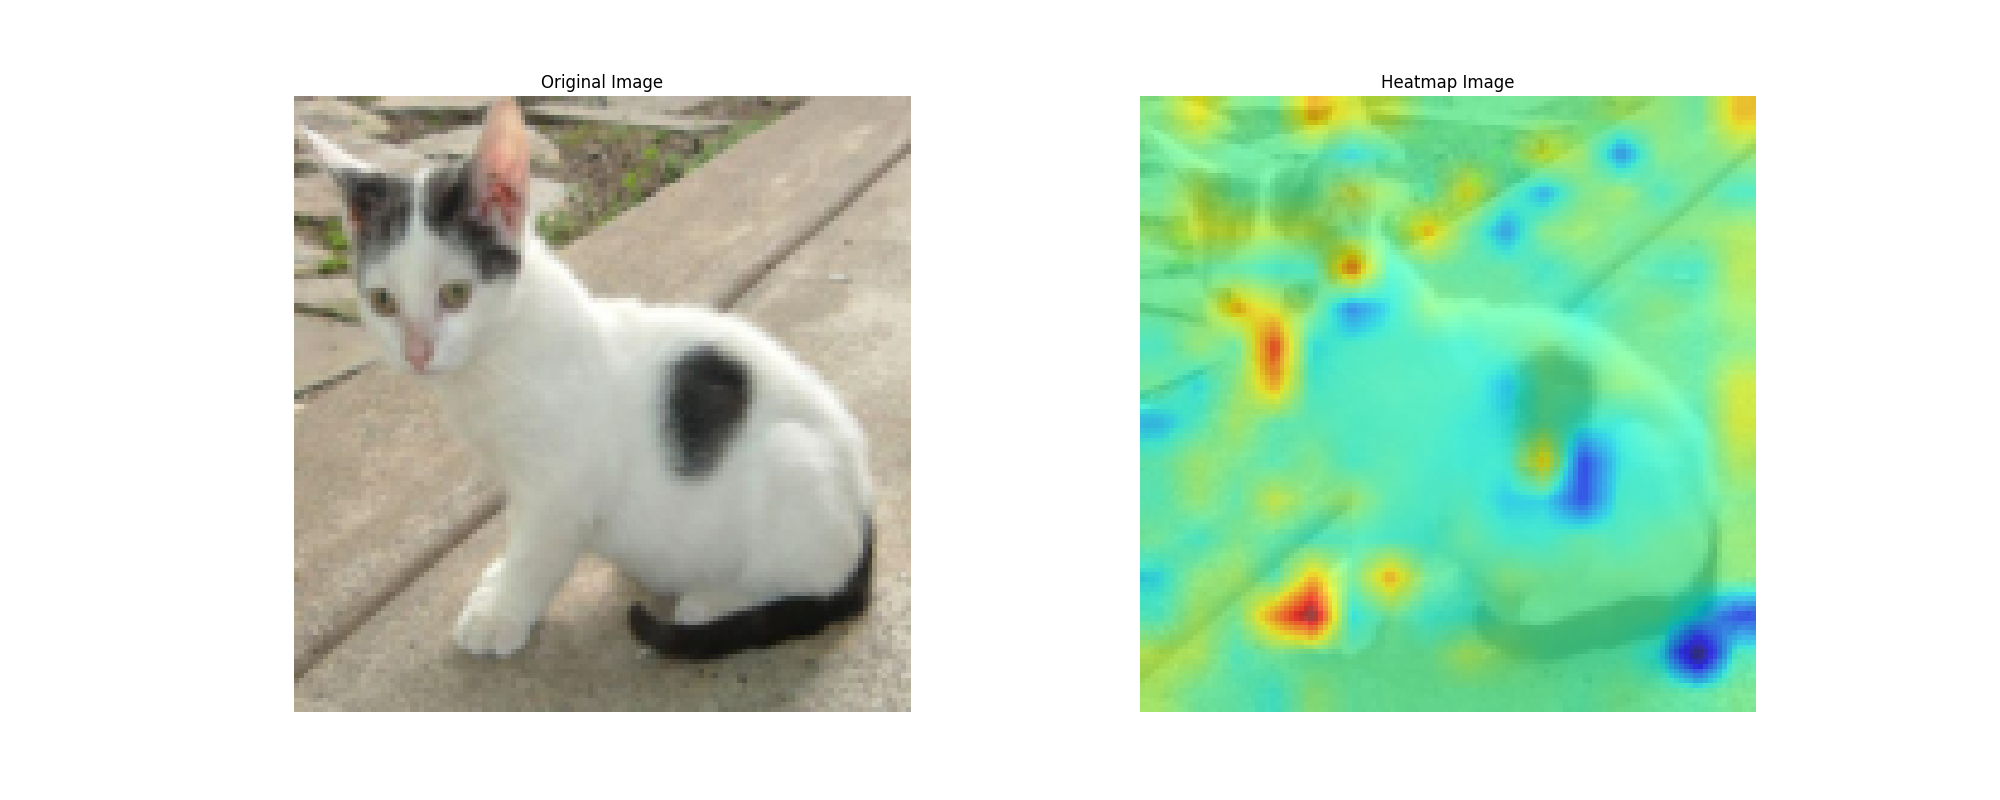
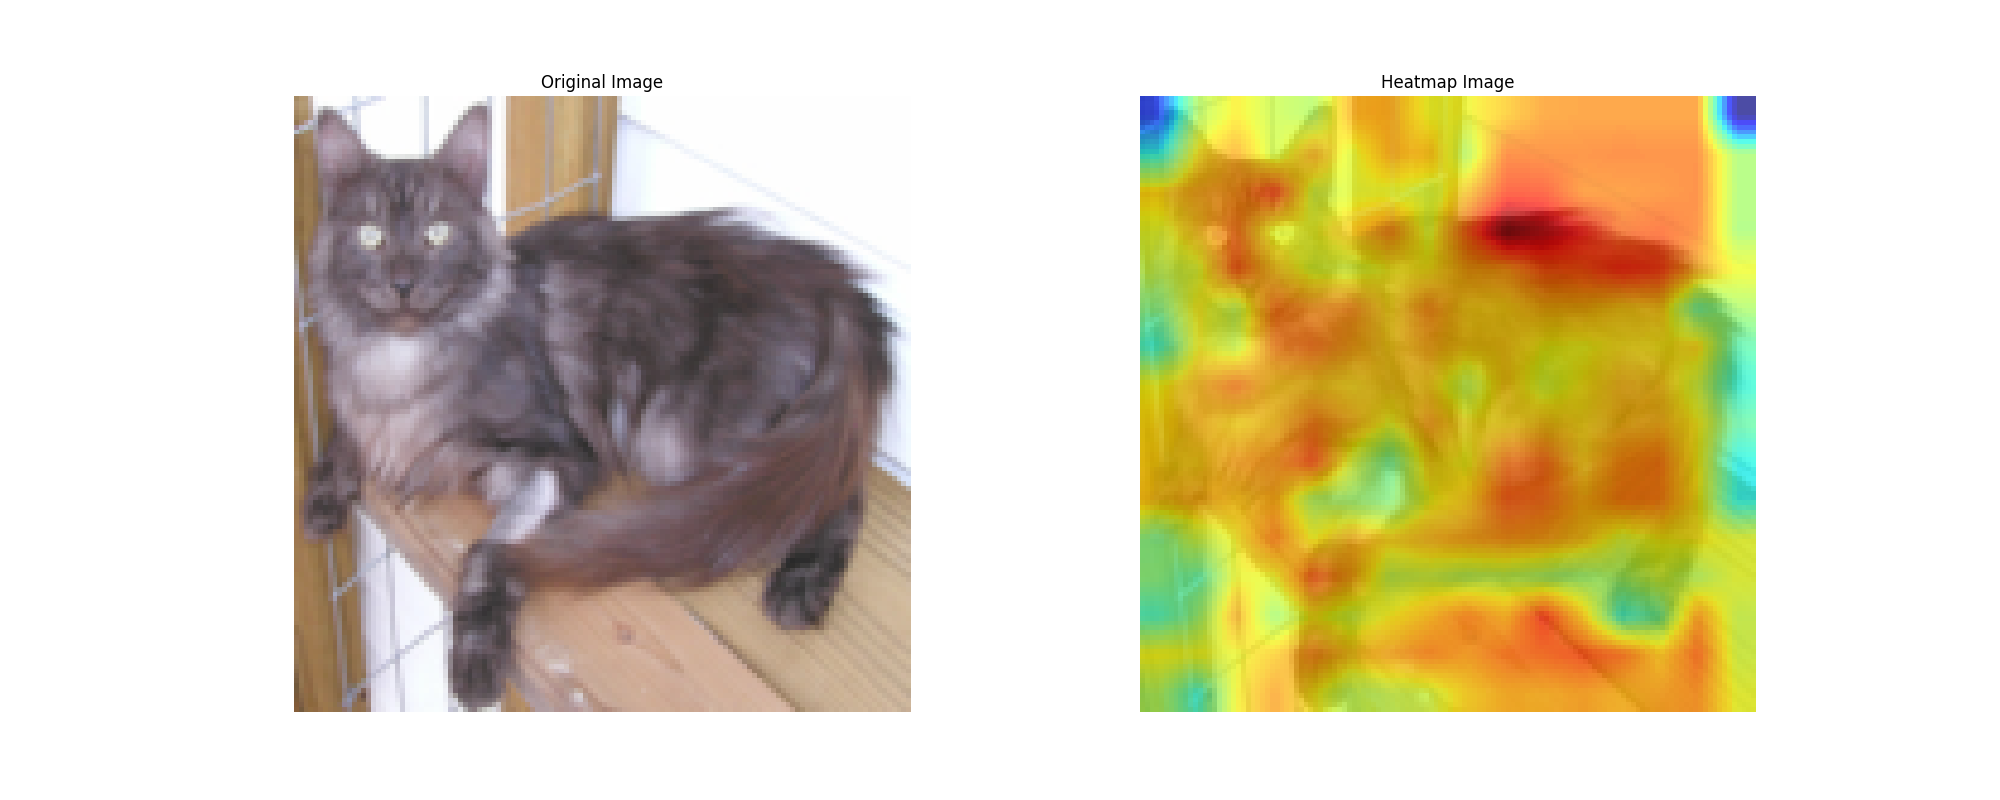
Added train_funcs.py to standardize training routines for the CNN_CAT_DOG and BASIC_MODEL models

diff --git a/training/basic_train.py b/training/basic_train.py
@@ -1,17 +1,11 @@
 
-import torch.optim
-import random
-import os 
 import argparse as arg
-from torch import nn
-from torch.utils.data import DataLoader, Dataset
 from utils.parent_dir import parent_dir
-from utils.metrics import calc_accuracy
+from utils.train_funcs import train_results
 from torchvision import datasets, transforms
-import matplotlib.pyplot as plt
 from pathlib import Path
 from Models.model import BASIC_MODEL
-from Models.model import BASIC_CNN
+
 
 # Basic MNIST training script
 # This module defines the training workflow for the BASIC_MODEL and saves
@@ -19,101 +13,9 @@ from Models.model import BASIC_CNN
 
 def main():
 
+    transform = transforms.ToTensor()
 
-    
-
-
-    # Select GPU if available, otherwise use CPU
-    device = 'cuda' if torch.cuda.is_available() else 'cpu'
-    print(device)
-
-
-
-    BATCH = 64
-    LR = 0.005
-    EPOCHS = 150
-
-
-
-    def train_results(BATCH, LR, EPOCHS):
-
-        # Initialize the model, loss function, optimizer, and data transform
-        model = BASIC_MODEL().to(torch.device(device))
-
-        criterion = nn.CrossEntropyLoss()
-
-        optimizer = torch.optim.Adam(model.parameters(), lr = LR)
-
-        transform = transforms.ToTensor()
-
-        # Load the MNIST training dataset from the local data folder
-        MNIST_Train = datasets.MNIST(root = "data", train= True,  transform = transform)
-
-        
-
-
-        train_data_loader = DataLoader(dataset = MNIST_Train, batch_size= BATCH, shuffle = True, num_workers = 0)
-
-        
-
-
-        
-
-        print(f"num_parameters: {sum(p.numel() for p in model.parameters())}")
-
-
-
-        
-
-        # Training loop over epochs and batches
-        for epoch in range(EPOCHS):
-
-            model.train()
-            
-            train_loss, train_acc = 0, 0
-
-
-            for (image,label) in train_data_loader:
-                
-            
-
-
-                image, label = image.to(device), label.to(device)
-
-                output = model(image.view(image.shape[0],-1))
-
-                loss= criterion(output, label)
-
-                optimizer.zero_grad()
-
-                loss.backward()
-
-                train_acc += calc_accuracy(output, label)
-
-                train_loss += loss.item()
-
-                optimizer.step()
-
-
-            
-            
-            print(f"Epoch: {epoch}, Loss: {train_loss/len(train_data_loader):.4f}")
-
-        # Save model and optimizer checkpoints for later evaluation or resuming
-        model_path = parent_dir/ "checkpoint" / "basic" /"dnn_model.pth"
-
-        optimizer_path = parent_dir /"checkpoint" /"basic"/"dnn_optimizer.pth"
-
-        Path.touch(model_path)
-
-        Path.touch(optimizer_path)
-
-        torch.save(model.state_dict(), model_path)
-
-        torch.save(optimizer.state_dict(), optimizer_path)  
-
-
-    
+    MNIST_Train = datasets.MNIST(root = "data", train= True,  transform = transform)
 
     # Parse command-line arguments for learning rate, batch size, and epochs
     arg_collector = arg.ArgumentParser()
@@ -122,10 +24,12 @@ def main():
     arg_collector.add_argument("--batch_size", type = int)
     arg_collector.add_argument("--epochs", type = int)
 
-
     args = arg_collector.parse_args()
 
-    train_results(args.batch_size, args.lr, args.epochs)
+    train_results(args.batch_size, args.lr, args.epochs, BASIC_MODEL(), 
+                  MNIST_Train, lambda x: x.view(x.shape[0], -1), parent_dir / "checkpoint" / "basic" / "saved_dnn_model.pth")
+
+
 
 
 

diff --git a/training/cnn_train.py b/training/cnn_train.py
@@ -10,6 +10,7 @@ import PIL
 from utils.metrics import calc_accuracy
 from utils.device import device
 from utils.parent_dir import parent_dir
+from utils.train_funcs import train_results
 from pathlib import Path
 
 import os
@@ -47,80 +48,9 @@ train_data, val_data = data.random_split(train_data, [int(len(train_data)*0.8), 
 
 def main():
 
-    def train(EPOCH, LR, Batch):
+    train_results(64,0.001,10, CNN_CAT_DOG(), train_data, None, parent_dir / "checkpoint" / "cnn" / "saved_cnn_model.pth")
 
-        # Initialize the CNN model and data loader for training
-        model = CNN_CAT_DOG().to(device)
-
-
-        train_loader = data.DataLoader(dataset = train_data, batch_size = Batch, shuffle = True, num_workers = 0)
-        
-
-        optimizer = optim.Adam(params = model.parameters(), lr = LR )
-
-        criterion = nn.CrossEntropyLoss()
-        
-
-
-        # Training loop for the cat/dog CNN model
-        for epoch in range(EPOCH):
-
-            total_loss, total_acc, sample_tot = 0,0, 0
-
-            model.train()
-            
-            for (image, label) in train_loader:
-
-                image, label = image.to(device), label.to(device)
-
-                output = model(image)
-
-                loss = criterion(output, label)
-
-                optimizer.zero_grad()
-
-                loss.backward()
-
-                optimizer.step()
-
-                accuracy = calc_accuracy(output, label)
-
-                total_acc += accuracy
-
-                sample_tot += label.numel()
-
-                total_loss += loss.item()
-
-            print(f"Epoch: {epoch}, train_accuracy {total_acc/len(train_loader):.4f}, train_Loss: {total_loss/len(train_loader)}")
-        
-        
-
-
-        
-
-
-
-    train(10,0.01, 32)
-
-
-
-
-
-
-
-
-
-
-
-
-
-
-
-
-
-
-
-
+    
 
 
 if __name__ == "__main__":

diff --git a/utils/train_funcs.py b/utils/train_funcs.py
@@ -1,0 +1,68 @@
+
+import torch.nn as nn
+import torch
+from torch.utils.data import DataLoader
+from pathlib import Path 
+from utils.metrics import calc_accuracy 
+from utils.parent_dir import parent_dir
+from utils.device import device
+
+def train_results(BATCH, LR, EPOCHS, model, dataset, batch_prep_func, save_path):
+
+        # Initialize the model, loss function, optimizer, and data transform
+        model = model.to(device)
+
+        criterion = nn.CrossEntropyLoss()
+
+        optimizer = torch.optim.Adam(model.parameters(), lr = LR)
+
+        # Load the MNIST training dataset from the local data folder
+
+        train_loader = DataLoader(dataset = dataset, batch_size= BATCH, shuffle = True, num_workers = 0)
+        
+        # Training loop over epochs and batches
+        for epoch in range(EPOCHS):
+
+            model.train()
+            
+            train_loss, train_acc = 0, 0
+
+
+            for (image,label) in train_loader:
+                
+                image, label = image.to(device), label.to(device)
+
+                image = batch_prep_func(image) if batch_prep_func else image
+
+                output = model(image)
+
+                loss= criterion(output, label)
+
+                optimizer.zero_grad()
+
+                loss.backward()
+
+                optimizer.step()
+
+                train_acc += calc_accuracy(output, label)
+
+                train_loss += loss.item()
+
+                
+
+            
+            
+            print(f"Epoch: {epoch}, train_accuracy: {train_acc/len(train_loader):.4f}, train_Loss: {train_loss/len(train_loader)}")
+
+    
+
+            Path.touch(save_path, exist_ok = True)
+
+            torch.save({"model": model.state_dict(),
+                        "optim": optimizer.state_dict()}, save_path)
+
+            
+
+
+        
+        

diff --git a/visualization/visualization.py b/visualization/visualization.py
@@ -6,6 +6,7 @@ import random
 from training.cnn_train import transform
 from PIL import Image 
 from utils.parent_dir import parent_dir
+from utils.device import device
 from pathlib import Path
 import os 
 import matplotlib.pyplot as plt
@@ -13,9 +14,12 @@ import matplotlib.pyplot as plt
 # Visualization script for CNN feature maps and Grad-CAM style overlays.
 # Uses a trained CNN model to inspect intermediate feature responses.
 
-model = CNN_CAT_DOG().to(torch.device('cuda'))
+model = CNN_CAT_DOG().to(device)
 
-model.load_state_dict(torch.load(os.path.join("checkpoint","cnn","model_epoch_9.pth")))
+
+model_state_dict =  torch.load(os.path.join("checkpoint","cnn","saved_cnn_model.pth"))
+model.load_state_dict(model_state_dict["model"])
+
 
 # Print a summary placeholder for the model parameter count
 print(f"Total_params:sum(param.numel() for param in model.parameters())")

diff --git a/training/cnn_evaluate.py b/training/cnn_evaluate.py
@@ -13,7 +13,8 @@ def main():
     model = CNN_CAT_DOG().to(device)
 
     # Load the trained checkpoint for evaluation
-    model.load_state_dict(torch.load(os.path.join("checkpoint","cnn","model_epoch_9.pth")))
+    model_state_dict =  torch.load(os.path.join("checkpoint","cnn","saved_cnn_model.pth"))
+    model.load_state_dict(model_state_dict["model"])
 
     # Use the validation split from cnn_train.py for evaluation
     val_loader = DataLoader(dataset = val_data, batch_size = 64, shuffle  = True, num_workers = 0)

diff --git a/training/basic_evaluate.py b/training/basic_evaluate.py
@@ -16,7 +16,7 @@ def main():
     model = BASIC_MODEL()
 
     # Load the trained model weights from checkpoint
-    model.load_state_dict(torch.load(parent_dir /"checkpoint" / "basic" / "dnn_model.pth"))
+    model.load_state_dict(torch.load(parent_dir /"checkpoint" / "basic" / "saved_dnn_model.pth")["model"])
 
     model.to(device)
 